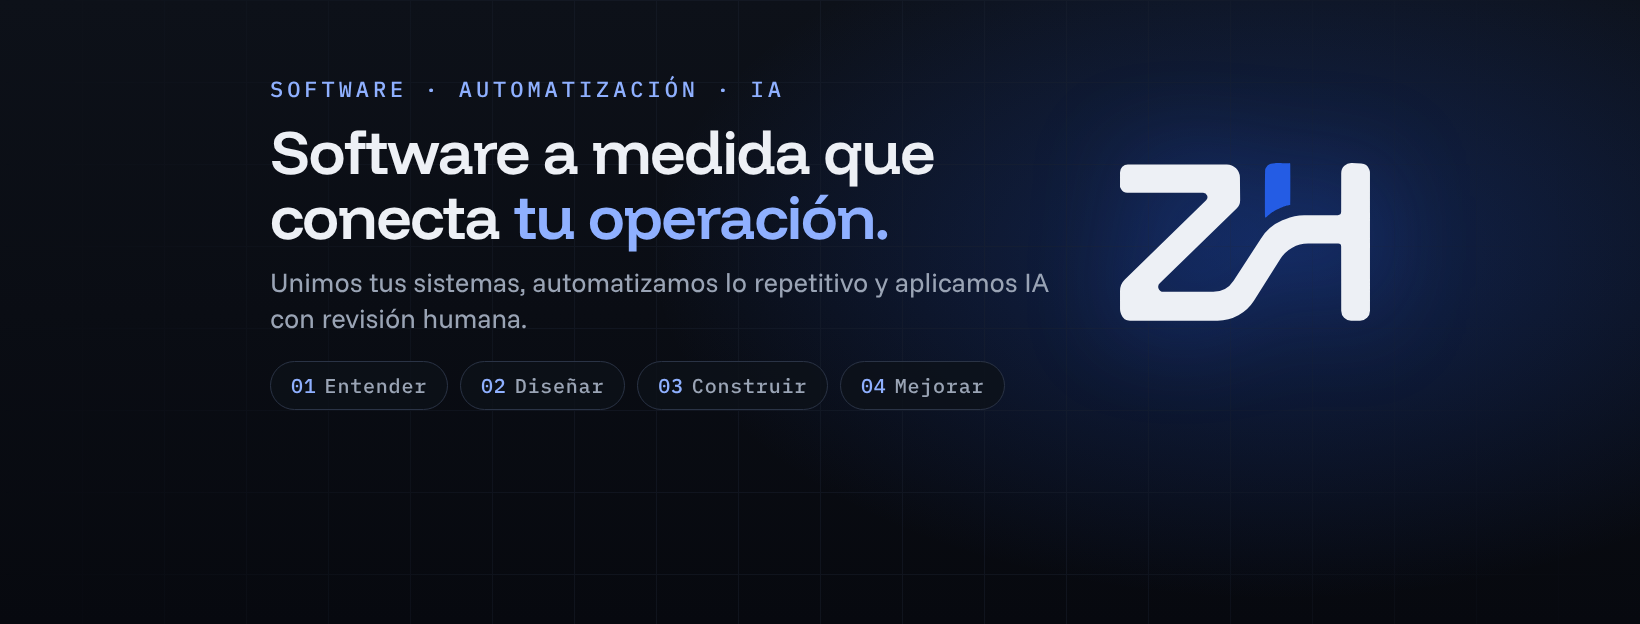
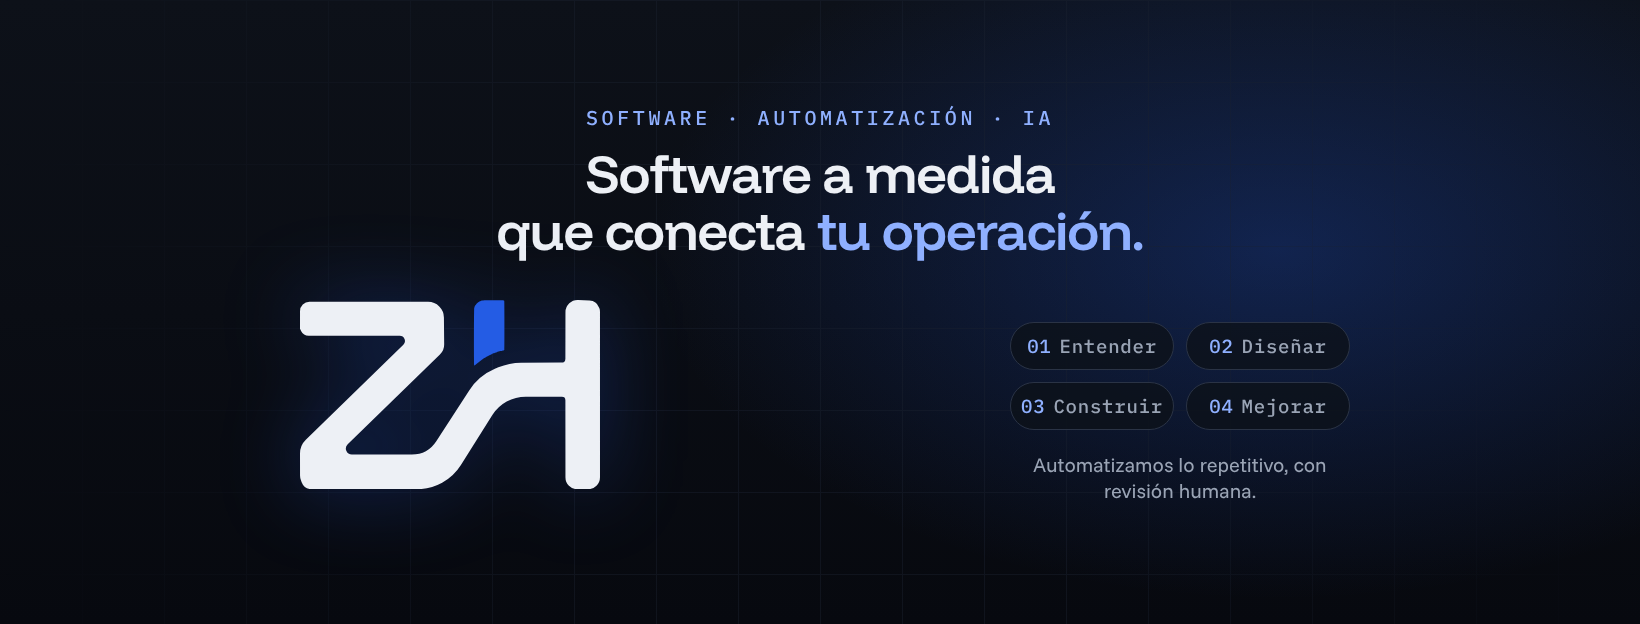
Portada de Facebook: layout ajustado al recorte y a la foto de perfil centrada
Claude-Session: https://claude.ai/code/session_01R9JUN9Mw5qDv1UF7YP8UoC

diff --git a/brand/facebook/cover.html b/brand/facebook/cover.html
@@ -25,65 +25,63 @@
     mask-image: linear-gradient(90deg, transparent 0%, #000 35%, #000 65%, transparent 100%);
     -webkit-mask-image: linear-gradient(90deg, transparent 0%, #000 35%, #000 65%, transparent 100%);
   }
-  /* Área segura: lo que se ve en celular (640x360 centrado) */
-  .safe {
-    position: absolute; left: 50%; top: 52px; transform: translateX(-50%);
-    width: 1100px; height: 380px;
-    display: flex; align-items: center; justify-content: space-between; gap: 48px;
+  /* Zona visible en escritorio: y 91 a 533. En celular: x 265 a 1375. Foto de perfil: círculo centrado, x 650 a 990, desde y 258 hacia abajo. */
+  .top {
+    position: absolute; left: 50%; top: 104px; transform: translateX(-50%);
+    width: 1100px; text-align: center;
   }
-  .text { max-width: 800px; }
   .label {
-    font-family: "IBM Plex Mono"; font-weight: 500; font-size: 22px; letter-spacing: 0.18em;
-    color: #8FB0FF; text-transform: uppercase; margin-bottom: 16px;
+    font-family: "IBM Plex Mono"; font-weight: 500; font-size: 20px; letter-spacing: 0.18em;
+    color: #8FB0FF; text-transform: uppercase; margin-bottom: 14px;
   }
   h1 {
-    font-family: "Funnel Display"; font-weight: 600; font-size: 62px; line-height: 1.04;
-    letter-spacing: -0.02em; margin: 0 0 16px;
+    font-family: "Funnel Display"; font-weight: 600; font-size: 54px; line-height: 1.06;
+    letter-spacing: -0.02em; margin: 0;
   }
   h1 em { font-style: normal; color: #8FB0FF; }
-  p {
-    font-family: "Funnel Sans"; font-weight: 400; font-size: 27px; line-height: 1.35;
-    color: #9AA4B5; margin: 0;
+  .logo {
+    position: absolute; left: 300px; top: 300px; width: 300px;
+    filter: drop-shadow(0 0 40px rgba(36, 92, 228, 0.35));
   }
+  .logo svg { width: 100%; height: auto; display: block; }
   .steps {
-    display: flex; gap: 12px; margin-top: 24px;
-    font-family: "IBM Plex Mono"; font-weight: 500; font-size: 20px; letter-spacing: 0.04em;
+    position: absolute; right: 290px; top: 322px; width: 340px;
+    display: grid; grid-template-columns: 1fr 1fr; gap: 12px;
+    font-family: "IBM Plex Mono"; font-weight: 500; font-size: 19px; letter-spacing: 0.04em;
   }
   .step {
-    border: 1px solid #2A3345; border-radius: 999px; padding: 10px 20px; color: #9AA4B5;
-    background: rgba(13, 17, 25, 0.8);
+    border: 1px solid #2A3345; border-radius: 999px; padding: 11px 0; color: #9AA4B5;
+    background: rgba(13, 17, 25, 0.8); text-align: center;
   }
   .step b { color: #8FB0FF; font-weight: 500; margin-right: 8px; }
-  .logo { flex: none; width: 250px; filter: drop-shadow(0 0 48px rgba(36, 92, 228, 0.35)); }
-  .logo svg { width: 100%; height: auto; display: block; }
-  .domain {
-    position: absolute; right: 0; bottom: 0;
-    font-family: "IBM Plex Mono"; font-weight: 500; font-size: 20px; letter-spacing: 0.08em; color: #7C879A;
+  .tagline {
+    position: absolute; right: 290px; top: 452px; width: 340px;
+    font-family: "Funnel Sans"; font-weight: 400; font-size: 20px; line-height: 1.3;
+    color: #9AA4B5; text-align: center;
   }
+  .debug { position: absolute; border: 1px dashed #ff4d4d; opacity: 0.7; }
 </style>
 </head>
 <body>
 <div class="cover">
   <div class="grid"></div>
-  <div class="safe">
-    <div class="text">
-      <div class="label">Software · Automatización · IA</div>
-      <h1>Software a medida que conecta <em>tu operación.</em></h1>
-      <p>Unimos tus sistemas, automatizamos lo repetitivo y aplicamos IA con revisión humana.</p>
-      <div class="steps">
-        <span class="step"><b>01</b>Entender</span>
-        <span class="step"><b>02</b>Diseñar</span>
-        <span class="step"><b>03</b>Construir</span>
-        <span class="step"><b>04</b>Mejorar</span>
-      </div>
-    </div>
-    <div class="logo">
-      <svg xmlns="http://www.w3.org/2000/svg" viewBox="0 0 1000 630.685">
+  <div class="top">
+    <div class="label">Software · Automatización · IA</div>
+    <h1>Software a medida<br>que conecta <em>tu operación.</em></h1>
+  </div>
+  <div class="logo">
+    <svg xmlns="http://www.w3.org/2000/svg" viewBox="0 0 1000 630.685">
       <path fill="#EDF0F5" stroke="var(--mark-line, none)" pathLength="1" d="M884.87 40.66L884.62 195.48A13.23 13.23 0 0 1 871.42 208.69L737.02 208.93A193.66 193.66 0 0 0 661.15 224.56L649.62 229.49A192.09 192.09 0 0 0 564.02 301.63L454.22 471.11A96.97 96.97 0 0 1 372.84 515.36L172.96 515.38A19.99 19.99 0 0 1 159.02 481.05L466.46 182.08A46.7 46.7 0 0 0 480.61 148.16L479.75 58.37A52.68 52.68 0 0 0 427.11 6.19L31.28 5.92A31.22 31.22 0 0 0 0.05 37.13L0.04 95.81A0.12 0.12 0 0 0 0.05 95.86L3.57 103.16A28.23 28.23 0 0 0 28.97 119.11L332.51 119.33A17.19 17.19 0 0 1 344.5 148.83L19.36 465.68A64.09 64.09 0 0 0 0 511.67L0.11 585.18A44.31 44.31 0 0 0 3.08 601.06L5.44 607.17A36.73 36.73 0 0 0 39.71 630.69L390.37 630.62A172.65 172.65 0 0 0 536.41 550L641.19 383.7A131.65 131.65 0 0 1 752.58 322.23L873.08 322.23A11.54 11.54 0 0 1 884.63 333.76L884.87 591.36A39.33 39.33 0 0 0 924.2 630.66L960.1 630.66A39.9 39.9 0 0 0 1000 590.76L999.92 38.33A28.89 28.89 0 0 0 997.96 27.87L996.7 24.63A35.77 35.77 0 0 0 965.09 1.86L927.56 0.05A40.73 40.73 0 0 0 884.87 40.66Z"/>
       <path fill="#245CE4" d="M619.87 0.6C605.08 1.26 599.81 2.72 593.14 8.07C590.16 10.46 587.99 12.66 586.7 14.59C586.04 15.54 585.16 16.76 584.72 17.3C583.69 18.57 582.18 21.62 581.81 23.16C581.64 23.82 581.15 25.13 580.74 26.09C579.57 28.65 579.49 216.99 580.64 217.99C581.79 218.97 583.4 217.99 589.19 212.74C591.04 211.06 593.53 209.01 594.7 208.2C596.66 206.86 599.85 204.37 606.28 199.24C607.57 198.19 609.28 196.95 610.06 196.44C610.82 195.95 612.16 195.09 613.04 194.53C615.36 193.02 618.12 191.38 620.8 189.92C622.09 189.21 624.1 188.09 625.24 187.45C628.12 185.84 630.03 184.89 638.79 180.74C640.28 180.06 642.26 179.1 643.19 178.64C644.14 178.2 645.34 177.76 645.87 177.66C646.41 177.57 647.73 177.08 648.78 176.54C649.85 176.03 650.9 175.61 651.1 175.61C651.29 175.61 652.05 175.27 652.78 174.86C653.51 174.44 654.88 173.95 655.81 173.76C656.76 173.56 658.08 173.12 658.74 172.78C659.42 172.44 660.72 172.05 661.59 171.9C662.47 171.78 663.96 171.32 664.91 170.93C666.21 170.36 667.28 170.1 669.43 169.88C670.97 169.7 673.24 169.29 674.43 168.95C675.66 168.61 677.27 168.19 678.05 168.04C679.78 167.7 680.81 166.87 681.17 165.53C681.88 162.92 681.59 3.43 680.86 2.48C679.66 0.92 677.83 0.18 676 0.53C675.02 0.7 669.89 0.87 662.47 0.97C652.1 1.09 644.87 0.99 628.17 0.48C626.37 0.43 622.63 0.48 619.87 0.6Z"/>
     </svg>
-    </div>
   </div>
+  <div class="steps">
+    <span class="step"><b>01</b>Entender</span>
+    <span class="step"><b>02</b>Diseñar</span>
+    <span class="step"><b>03</b>Construir</span>
+    <span class="step"><b>04</b>Mejorar</span>
+  </div>
+  <div class="tagline">Automatizamos lo repetitivo, con revisión humana.</div>
 </div>
 </body>
 </html>
